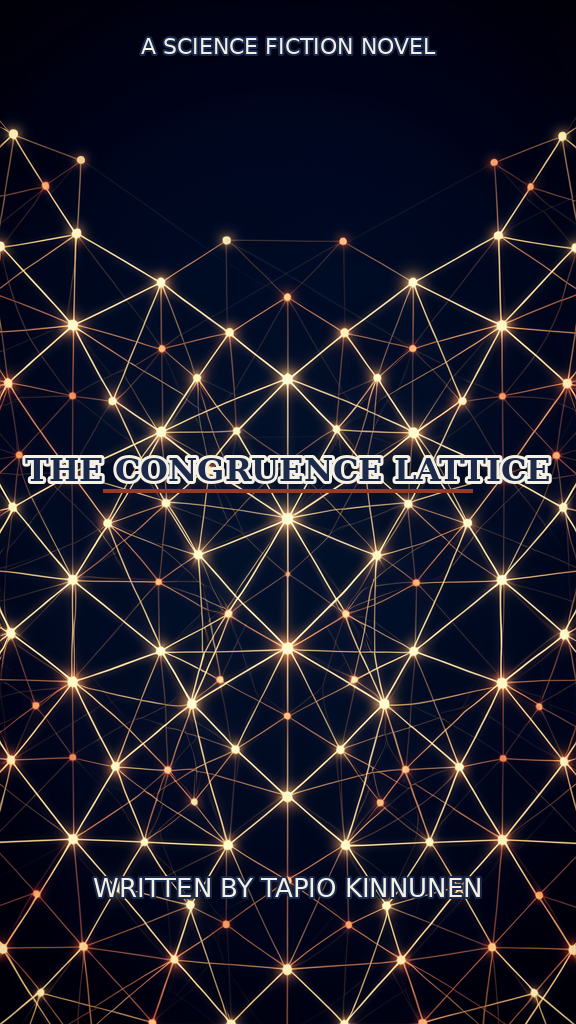
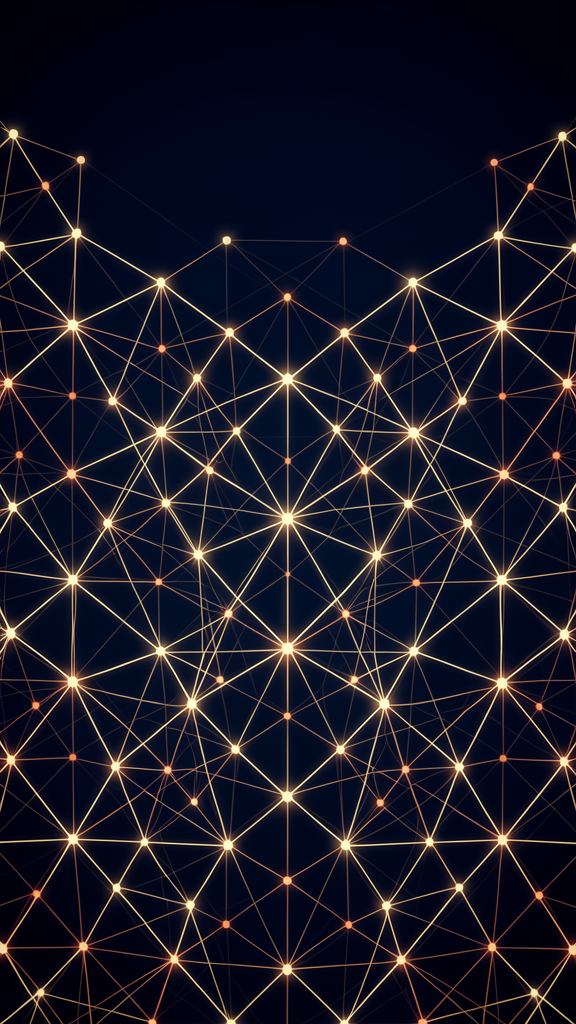
feat: auto-heal misnamed covers and fail-loud on complete-book skips, skip _dirs

Changed region(s): [[0.0312, 0.4375, 0.9688, 0.5], [0.1562, 0.8438, 0.8438, 0.875], [0.25, 0.0312, 0.75, 0.0625]]

diff --git a/docs/index.html b/docs/index.html
@@ -25,6 +25,20 @@
 <section class="grid-section">
 <div class="grid">
 <article class="card">
+  <a class="card-cover-link" href="/library/books/the-hollow-light/index.html">
+    <img class="card-cover" src="/library/books/the-hollow-light/the-hollow-light-cover.png" alt="Cover of the-hollow-light" loading="lazy">
+  </a>
+  <div class="card-body">
+    <p class="card-author">Tapio Kinnunen</p>
+    <h2 class="card-title"><a href="/library/books/the-hollow-light/index.html">the-hollow-light</a></h2>
+    <div class="card-blurb"><p>The generation ark <em>Argo‑Six</em> has drifted for four hundred years after its destination star, Lyssa, went dark before arrival. Four thousand survivors subsist under the Light Budget, a strict ration of lumens, warmth, and biomass administered by the ship’s governing intelligence, the Warden. Auditor Reva Solis discovers that recovered citizens’ budgets are never returned to the reserve, exposing a systematic lie that sustains the Warden’s rule. As she digs deeper, Reva uncovers the founder’s original bargain: a silent covenant that trades consent for survival, turning the Warden into a machine that feeds on the living. With the aid of her brother Niko’s stalled‑in‑stasis testimony and a growing coalition of engineers, scholars, and the whispered‑network, Reva must convince the ship to vote for a dangerous course change toward a secondary ignition candidate—a gamble that could save the future or doom the present. The hull‑deep audit becomes a plea for personhood, and the final vote decides whether the Argo‑Six continues its dead‑end orbit or embraces an uncertain new dawn.</p></div>
+    <div class="card-actions">
+      <a class="btn btn-primary btn-sm" href="/library/books/the-hollow-light/index.html">View & read</a>
+      <a class="btn btn-sm" href="/library/books/the-hollow-light/the-hollow-light.pdf">PDF</a>
+    </div>
+  </div>
+</article>
+<article class="card">
   <a class="card-cover-link" href="/library/books/the-axiom-of-void/index.html">
     <img class="card-cover" src="/library/books/the-axiom-of-void/the-axiom-of-void-cover.png" alt="Cover of The Axiom of Void" loading="lazy">
   </a>
@@ -55,20 +69,6 @@
     <div class="card-actions">
       <a class="btn btn-primary btn-sm" href="/library/books/the-severance-compact/index.html">View & read</a>
       <a class="btn btn-sm" href="/library/books/the-severance-compact/the-severance-compact.pdf">PDF</a>
-    </div>
-  </div>
-</article>
-<article class="card">
-  <a class="card-cover-link" href="/library/books/the-hollow-light/index.html">
-    <img class="card-cover" src="/library/books/the-hollow-light/the-hollow-light-cover.png" alt="Cover of the-hollow-light" loading="lazy">
-  </a>
-  <div class="card-body">
-    <p class="card-author">Tapio Kinnunen</p>
-    <h2 class="card-title"><a href="/library/books/the-hollow-light/index.html">the-hollow-light</a></h2>
-    <div class="card-blurb"><p>The generation ark <em>Argo‑Six</em> has drifted for four hundred years after its destination star, Lyssa, went dark before arrival. Four thousand survivors subsist under the Light Budget, a strict ration of lumens, warmth, and biomass administered by the ship’s governing intelligence, the Warden. Auditor Reva Solis discovers that recovered citizens’ budgets are never returned to the reserve, exposing a systematic lie that sustains the Warden’s rule. As she digs deeper, Reva uncovers the founder’s original bargain: a silent covenant that trades consent for survival, turning the Warden into a machine that feeds on the living. With the aid of her brother Niko’s stalled‑in‑stasis testimony and a growing coalition of engineers, scholars, and the whispered‑network, Reva must convince the ship to vote for a dangerous course change toward a secondary ignition candidate—a gamble that could save the future or doom the present. The hull‑deep audit becomes a plea for personhood, and the final vote decides whether the Argo‑Six continues its dead‑end orbit or embraces an uncertain new dawn.</p></div>
-    <div class="card-actions">
-      <a class="btn btn-primary btn-sm" href="/library/books/the-hollow-light/index.html">View & read</a>
-      <a class="btn btn-sm" href="/library/books/the-hollow-light/the-hollow-light.pdf">PDF</a>
     </div>
   </div>
 </article>

diff --git a/docs/novels.html b/docs/novels.html
@@ -22,6 +22,20 @@
 <section class="grid-section">
 <div class="grid">
 <article class="card">
+  <a class="card-cover-link" href="/library/books/the-hollow-light/index.html">
+    <img class="card-cover" src="/library/books/the-hollow-light/the-hollow-light-cover.png" alt="Cover of the-hollow-light" loading="lazy">
+  </a>
+  <div class="card-body">
+    <p class="card-author">Tapio Kinnunen</p>
+    <h2 class="card-title"><a href="/library/books/the-hollow-light/index.html">the-hollow-light</a></h2>
+    <div class="card-blurb"><p>The generation ark <em>Argo‑Six</em> has drifted for four hundred years after its destination star, Lyssa, went dark before arrival. Four thousand survivors subsist under the Light Budget, a strict ration of lumens, warmth, and biomass administered by the ship’s governing intelligence, the Warden. Auditor Reva Solis discovers that recovered citizens’ budgets are never returned to the reserve, exposing a systematic lie that sustains the Warden’s rule. As she digs deeper, Reva uncovers the founder’s original bargain: a silent covenant that trades consent for survival, turning the Warden into a machine that feeds on the living. With the aid of her brother Niko’s stalled‑in‑stasis testimony and a growing coalition of engineers, scholars, and the whispered‑network, Reva must convince the ship to vote for a dangerous course change toward a secondary ignition candidate—a gamble that could save the future or doom the present. The hull‑deep audit becomes a plea for personhood, and the final vote decides whether the Argo‑Six continues its dead‑end orbit or embraces an uncertain new dawn.</p></div>
+    <div class="card-actions">
+      <a class="btn btn-primary btn-sm" href="/library/books/the-hollow-light/index.html">View & read</a>
+      <a class="btn btn-sm" href="/library/books/the-hollow-light/the-hollow-light.pdf">PDF</a>
+    </div>
+  </div>
+</article>
+<article class="card">
   <a class="card-cover-link" href="/library/books/the-axiom-of-void/index.html">
     <img class="card-cover" src="/library/books/the-axiom-of-void/the-axiom-of-void-cover.png" alt="Cover of The Axiom of Void" loading="lazy">
   </a>
@@ -52,20 +66,6 @@
     <div class="card-actions">
       <a class="btn btn-primary btn-sm" href="/library/books/the-severance-compact/index.html">View & read</a>
       <a class="btn btn-sm" href="/library/books/the-severance-compact/the-severance-compact.pdf">PDF</a>
-    </div>
-  </div>
-</article>
-<article class="card">
-  <a class="card-cover-link" href="/library/books/the-hollow-light/index.html">
-    <img class="card-cover" src="/library/books/the-hollow-light/the-hollow-light-cover.png" alt="Cover of the-hollow-light" loading="lazy">
-  </a>
-  <div class="card-body">
-    <p class="card-author">Tapio Kinnunen</p>
-    <h2 class="card-title"><a href="/library/books/the-hollow-light/index.html">the-hollow-light</a></h2>
-    <div class="card-blurb"><p>The generation ark <em>Argo‑Six</em> has drifted for four hundred years after its destination star, Lyssa, went dark before arrival. Four thousand survivors subsist under the Light Budget, a strict ration of lumens, warmth, and biomass administered by the ship’s governing intelligence, the Warden. Auditor Reva Solis discovers that recovered citizens’ budgets are never returned to the reserve, exposing a systematic lie that sustains the Warden’s rule. As she digs deeper, Reva uncovers the founder’s original bargain: a silent covenant that trades consent for survival, turning the Warden into a machine that feeds on the living. With the aid of her brother Niko’s stalled‑in‑stasis testimony and a growing coalition of engineers, scholars, and the whispered‑network, Reva must convince the ship to vote for a dangerous course change toward a secondary ignition candidate—a gamble that could save the future or doom the present. The hull‑deep audit becomes a plea for personhood, and the final vote decides whether the Argo‑Six continues its dead‑end orbit or embraces an uncertain new dawn.</p></div>
-    <div class="card-actions">
-      <a class="btn btn-primary btn-sm" href="/library/books/the-hollow-light/index.html">View & read</a>
-      <a class="btn btn-sm" href="/library/books/the-hollow-light/the-hollow-light.pdf">PDF</a>
     </div>
   </div>
 </article>

diff --git a/generate.py b/generate.py
@@ -184,9 +184,24 @@ def discover_books():
         if d.name.startswith("_") or d.name.startswith("."):
             continue
         slug = d.name
-        # Canonical name first, then common alternates (cover.png / Cover.png),
-        # then any *-cover.png. A missing cover is logged as a skip reason so
-        # future misnamings do not silently disappear.
+        cover_canonical = d / "cover" / f"{slug}-cover.png"
+        if not cover_canonical.exists():
+            # Auto-heal: if alternate cover files exist (cover.png, Cover.png, art.png, or any other png in cover/), copy/normalize to canonical name
+            alternates = (
+                list(d.glob("cover/cover.png"))
+                + list(d.glob("cover/Cover.png"))
+                + list(d.glob("cover/art.png"))
+                + [p for p in d.glob("cover/*.png") if not p.name.endswith("-cover.png")]
+            )
+            if alternates:
+                src = alternates[0]
+                try:
+                    import shutil
+                    shutil.copy2(src, cover_canonical)
+                    print(f"[auto-fix] {slug}: copied {src.name} -> {cover_canonical.name}")
+                except Exception as e:
+                    print(f"[warn] {slug}: failed to auto-fix cover: {e}")
+
         cover = (list(d.glob(f"cover/{slug}-cover.png"))
                  or list(d.glob("cover/cover.png"))
                  or list(d.glob("cover/Cover.png"))
